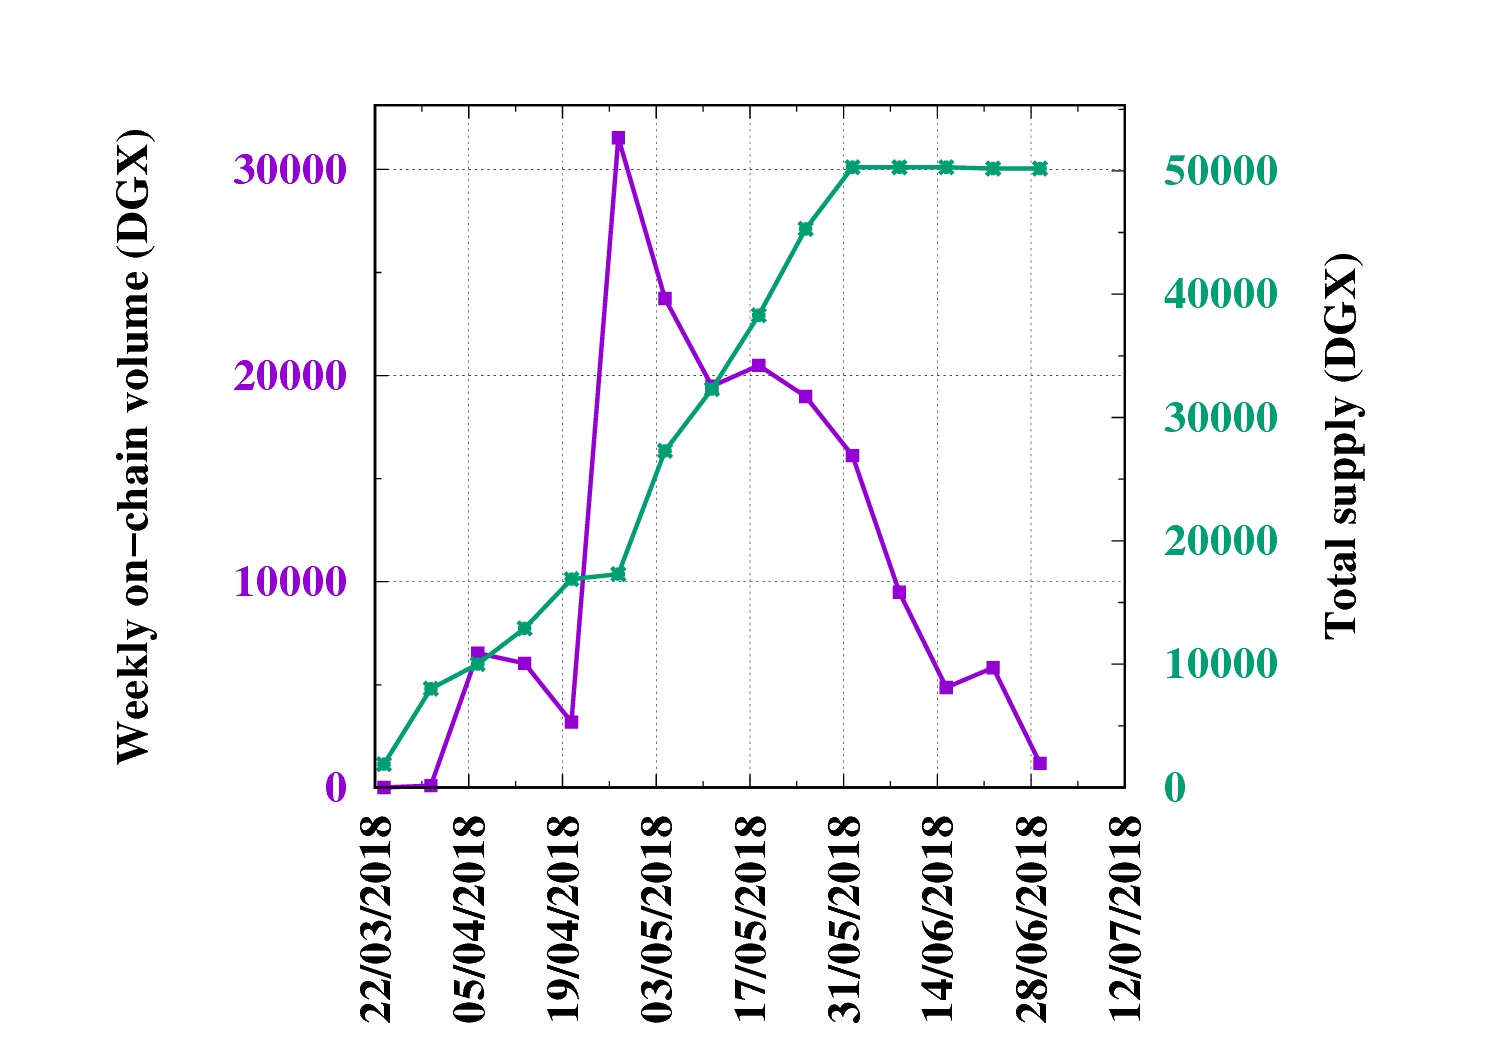
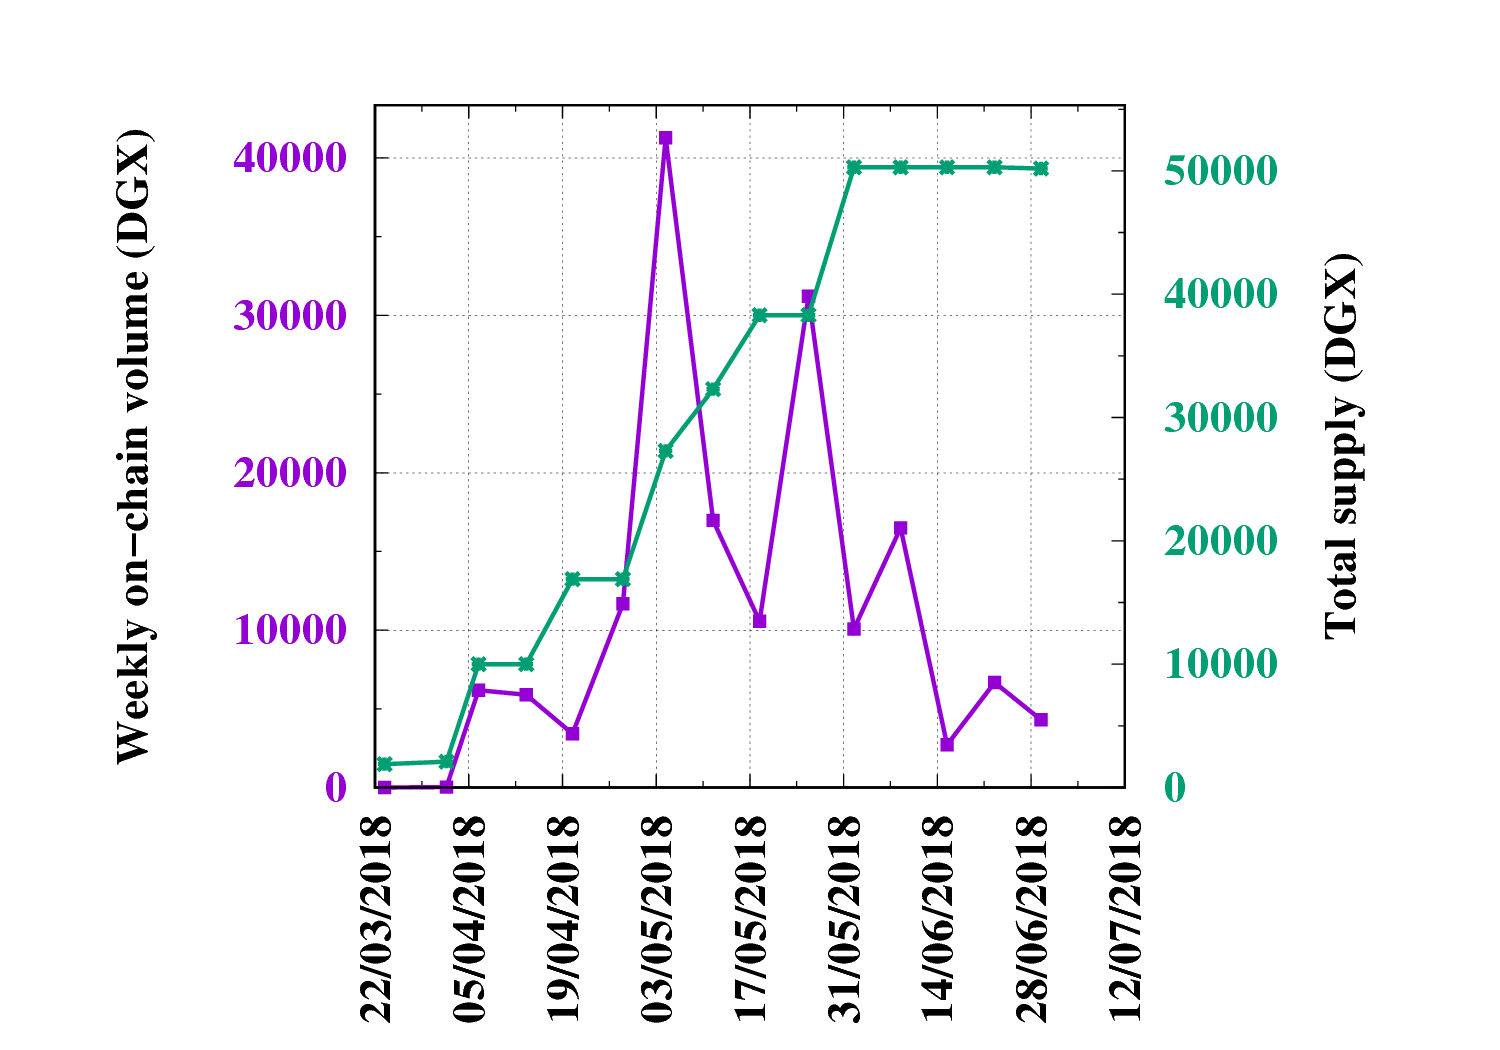
.

diff --git a/dgxvolume_scripts/wv.py b/dgxvolume_scripts/wv.py
@@ -24,53 +24,50 @@ day  = 24*hour
 week = 7*day
 quarter = 90*day
 
-# seconds from beginning
-d0 = datetime.datetime(2018, 3, 23, 8, 58)
-delta = now - d0
-ts_now = delta.total_seconds()
-t0 = amount[0]['timeStamp']  # time (s) of first tx 
-tlast = amount[length-1]['timeStamp']  # time (s) of first tx 
-a = int(ts_now) - (int(tlast) - int(t0))
-with open('tsince_lasttx.txt','w+') as f:
-  f.write(str(a))
 
 # Begin weekly table
 print("### Weekly volume table\n")
 print("Week Starting | Volume (DGX)")
 print("--- | ---")
 
-with open('weekly.dat','w+') as f:
+t0 = amount[0]['timeStamp'] 		        # time (s) of first tx 
+tlast = amount[length-1]['timeStamp']           # time (s) of last tx 
+dt = int(tlast) - int(t0)			# time between 1st and last txs
+d0 = now - datetime.timedelta(seconds=dt)	# current time minus dt
+di = d0
+with open('weekly.dat','w+') as f:		# open file for writing
   wv = 0                                        # weekly volume 
   tv = 0                                        # total volume
   cw = 1                                        # week counter (start at 1)
+  mintv = 0					# total supply
   t0 = amount[0]['timeStamp']                   # time of first tx
   for i in range(0,length):
-    x = int(amount[i]['value'])  # volume for ith tx
+    x = int(amount[i]['value'])  		# volume for ith tx
+    tv = tv + x					# accumulate total volume
+    ti = amount[i]['timeStamp']        	        # time of ith tx
+    dt = int(ti) - int(t0)                      # seconds since t0
     if amount[i]['from'] == '0x0000000000000000000000000000000000000000':  # if from 0x0 (minting)
       mintv = mintv + x  # DGX minted 
     elif amount[i]['to'] == '0x0000000000000000000000000000000000000000':  # if to 0x0 (recasting)
       wv = wv - x  # these are recasting txs
       mintv = mintv - x  
     else:					# else is a normal tx
-      ti = amount[i]['timeStamp']               # time of ith tx
-      dt = int(ti) - int(t0)                    # seconds since t0
       vi = int(amount[i]['value'])              # volume of ith tx
       wv = wv + vi                              # accumulate weekly volume
       tv = tv + vi                              # accumulate total volume
     if dt >= cw*week:                           # if dt > cw weeks
       cw += 1                                   # +1 week
-      di = d0 + datetime.timedelta(seconds=dt)  # datetime of ith tx
       y = round(float(wv)/1e9,2)                # round
       y2 = round(float(mintv)/1e9,2)
       print(str(di.strftime("%d/%m/%Y")) + "|" + str(y))  # print information to file
       f.write(str(di) + ' ' + str(y) + ' ' + str(y2) + '\n')    # write week number, volume to file
+      di = d0 + datetime.timedelta(seconds=dt)  # datetime of ith tx
       wv = 0                                    # reset weekly volume 
-wv = round(float(wv)/1e9,2)                     # current, unfinished week
-tv = round(float(tv)/1e9,2)                     # round
-y2 = round(float(mintv)/1e9,2)
-
-f.write(str(datew) + ' ' + str(wv) + ' ' + str(y2) + '\n')  # write week number, volume to file
-print(str(datew.strftime("%d/%m/%Y")) + "|" + str(wv))
+  wv = round(float(wv)/1e9,2)                     # current, unfinished week
+  tv = round(float(tv)/1e9,2)                     # round
+  y2 = round(float(mintv)/1e9,2)
+  f.write(str(di) + ' ' + str(wv) + ' ' + str(y2) + '\n')  # write week number, volume to file
+print(str(di.strftime("%d/%m/%Y")) + "|" + str(wv))
 
 # All-time volume table
 #print("Current Quarter |" + str(dateq.strftime("%d/%m/%Y")) + "|" + str(qv) )
@@ -84,6 +81,6 @@ print(str(d0.strftime("%d/%m/%Y"))    + "|" + str(tv) + "\n")
 print("### Total Supply\n")
 print("| DGX Total Supply |")
 print("| --- |")
-print("|" + y2 + "|\n")
+print("|" + str(y2) + "|\n")
 
 
